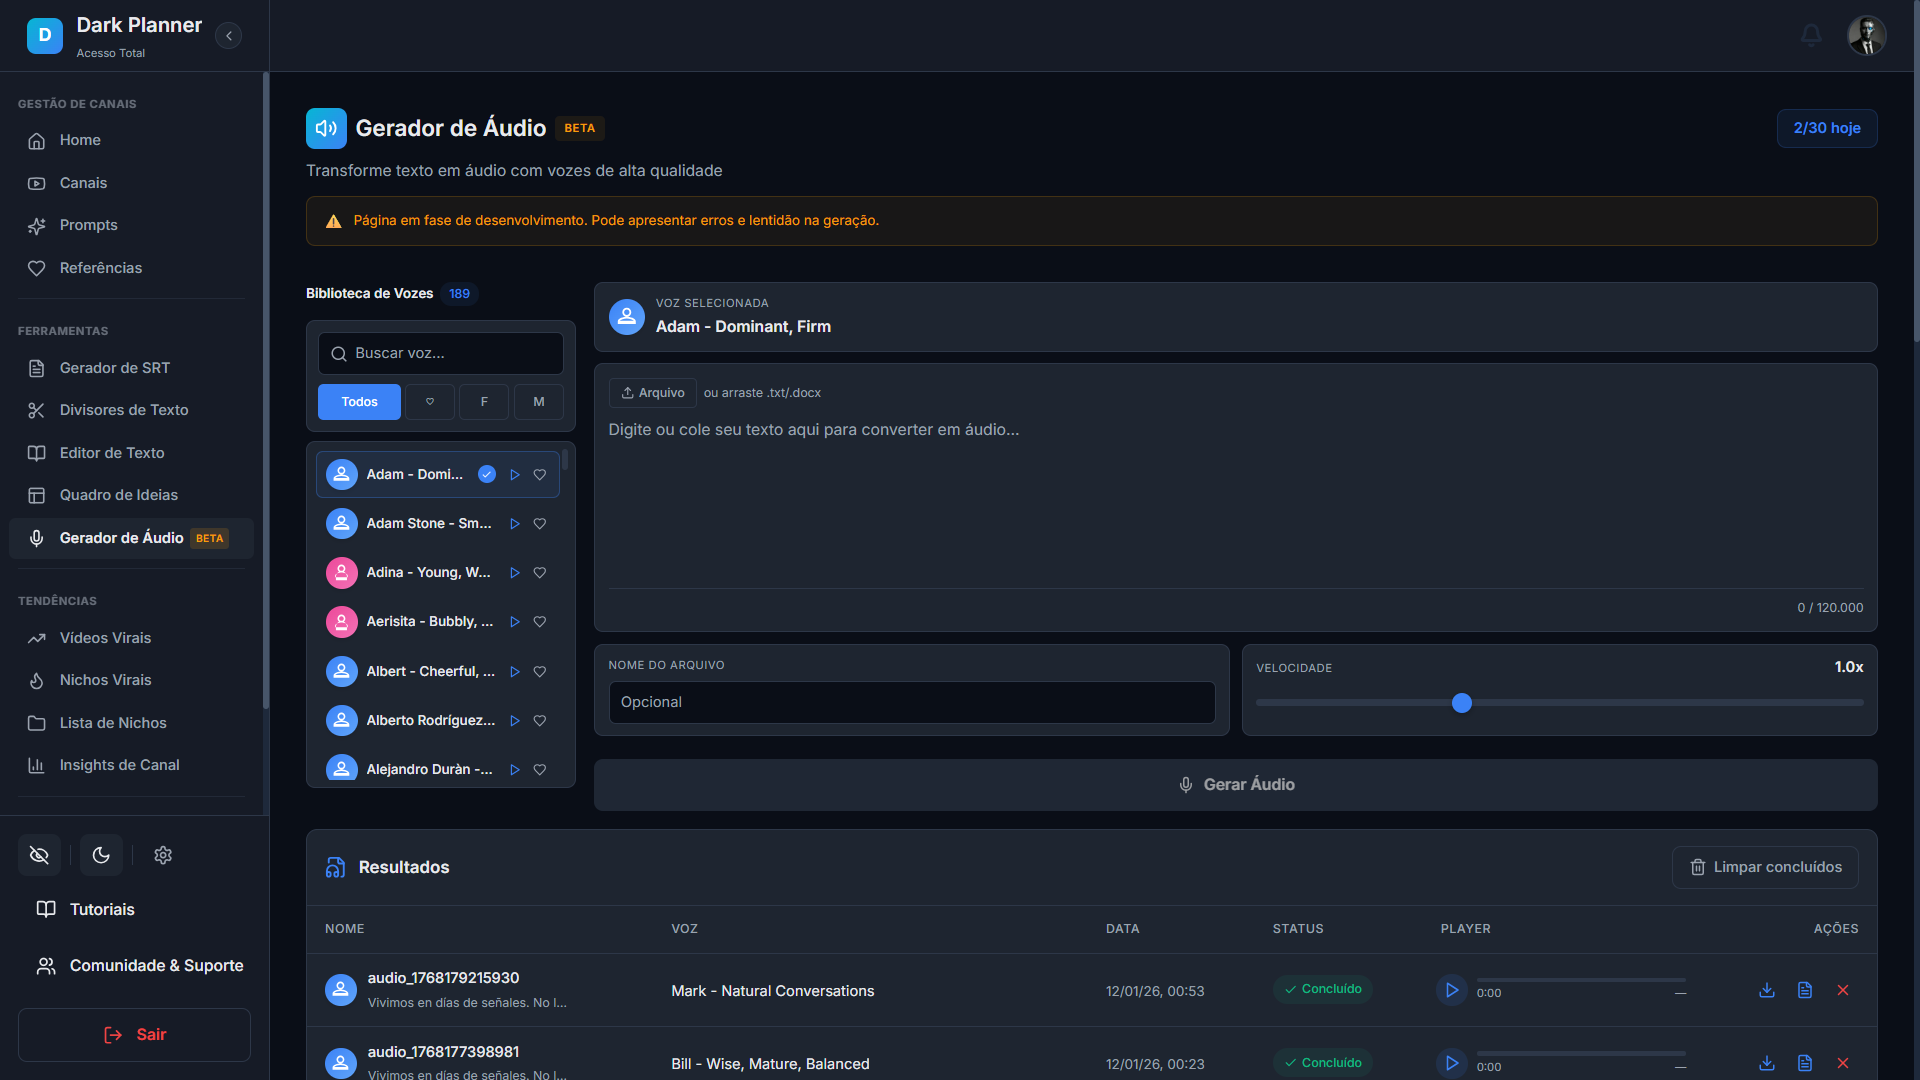
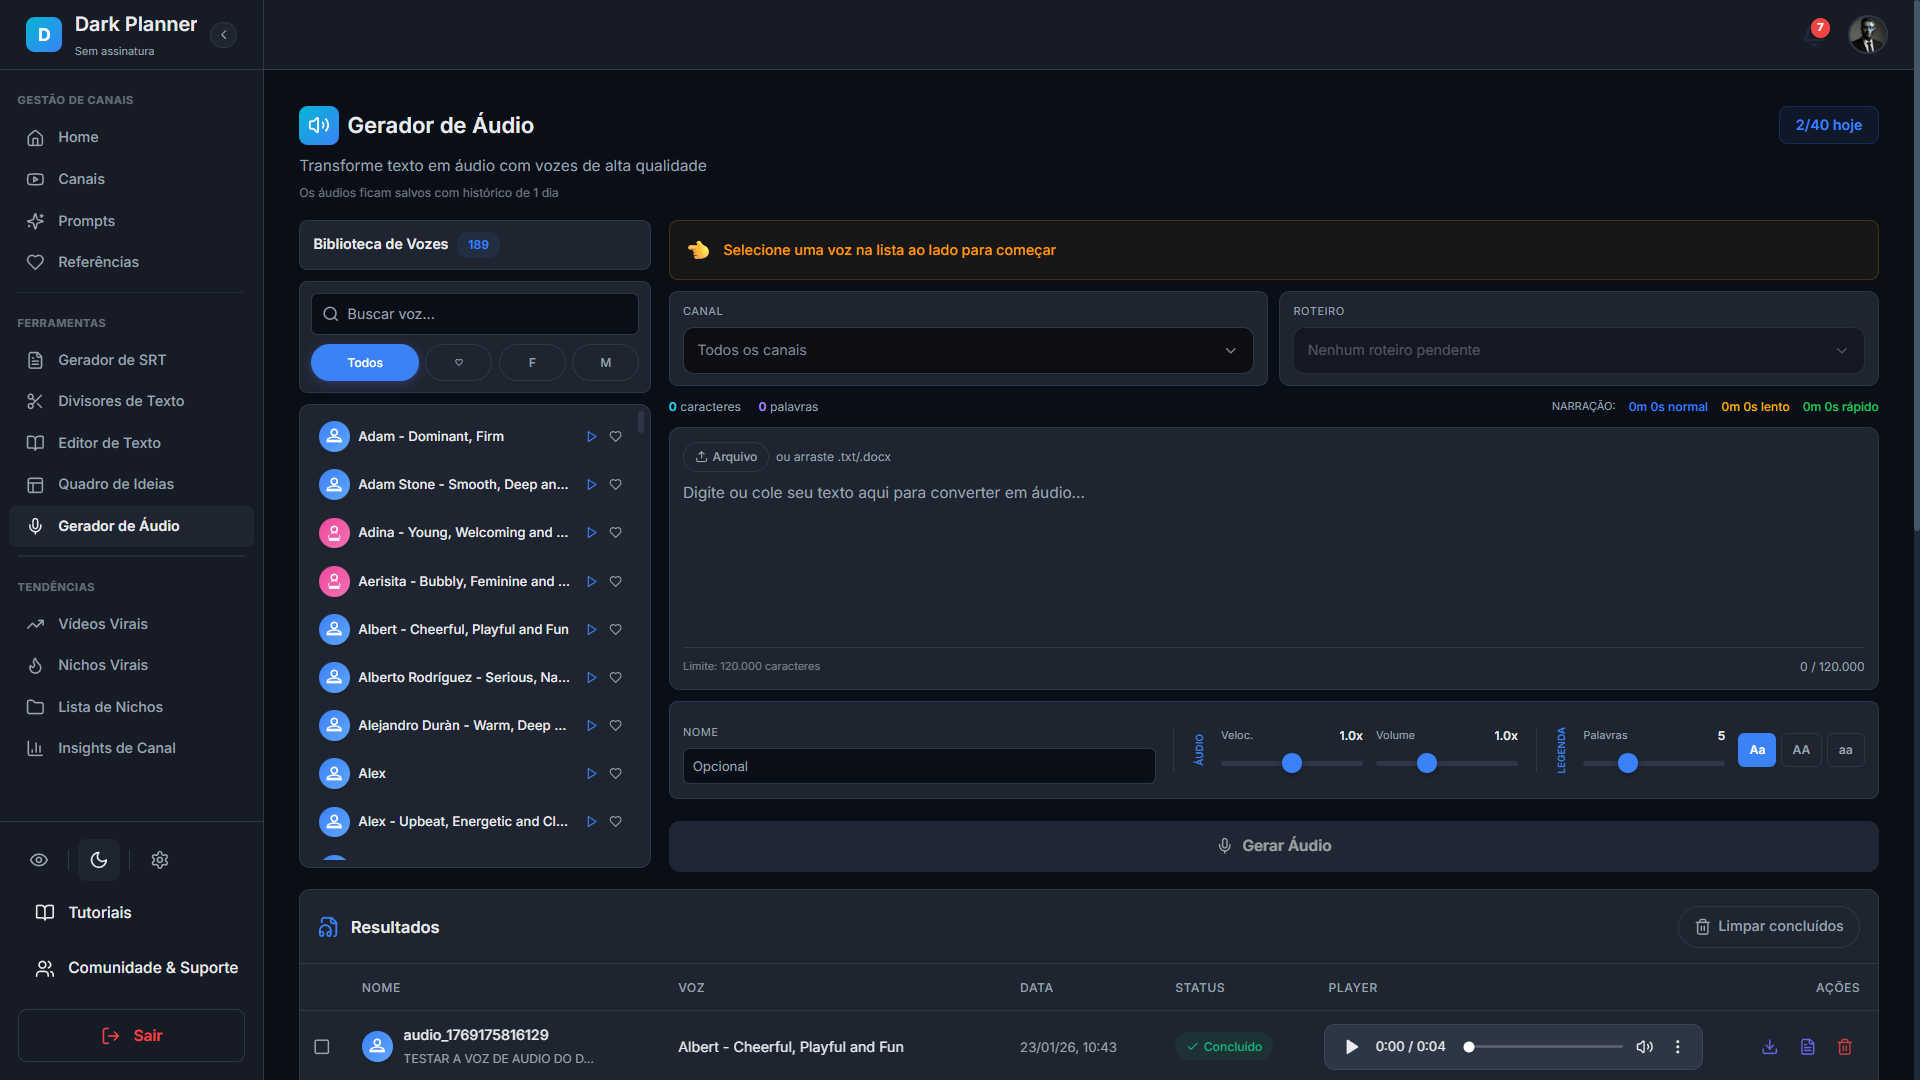
Changes

diff --git a/src/components/HowItWorks.tsx b/src/components/HowItWorks.tsx
@@ -11,7 +11,7 @@ import geradorSrt from "@/assets/gerador-srt.png";
 import referenciasCanais from "@/assets/referencias-canais.png";
 import promptsCanal from "@/assets/prompts-canal.png";
 import gestaoCanais from "@/assets/gestao-canais-new.png";
-import geradorAudio from "@/assets/gerador-audio-new.png";
+import geradorAudio from "@/assets/gerador-audio-full.png";
 import editorTexto from "@/assets/editor-texto.png";
 
 const features = [

diff --git a/src/components/AudioGeneratorHero.tsx b/src/components/AudioGeneratorHero.tsx
@@ -1,7 +1,7 @@
 import { motion } from "framer-motion";
 import { Button } from "@/components/ui/button";
 import { Volume2, Mic, Sparkles, Zap } from "lucide-react";
-import geradorAudioImage from "@/assets/gerador-audio-new.png";
+import geradorAudioImage from "@/assets/gerador-audio-full.png";
 
 export const AudioGeneratorHero = () => {
   return (
